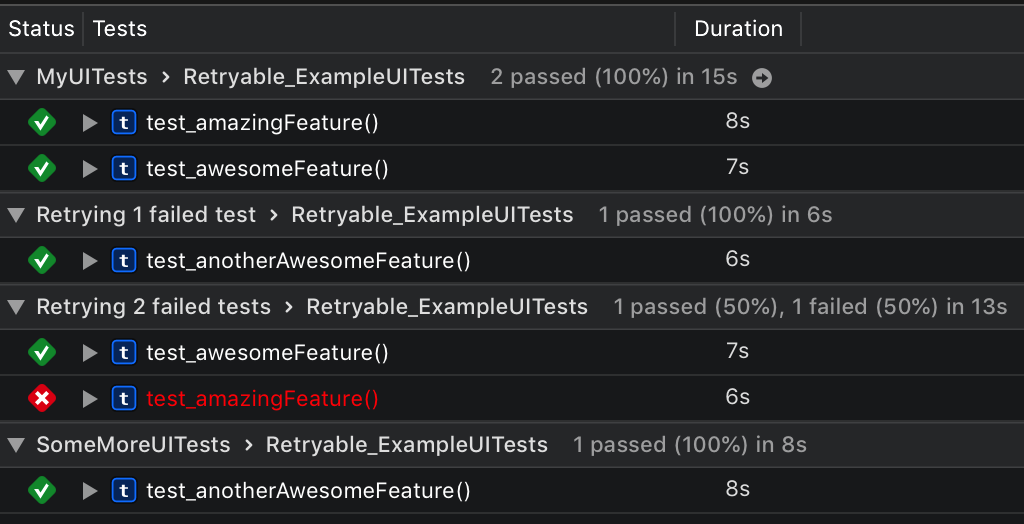
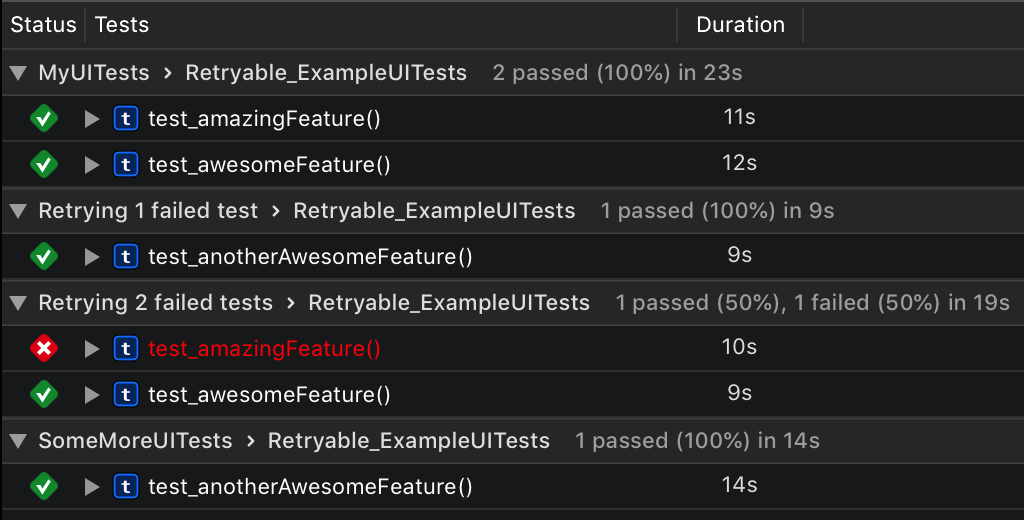
Changed sorting to be alphabetical

diff --git a/Retryable/Classes/RetryTestSuite.swift b/Retryable/Classes/RetryTestSuite.swift
@@ -14,7 +14,7 @@ final class RetryTestSuite: XCTestSuite {
 	init(_ failures: Set<RetryableTestCase>) {
 		let testsString = failures.count == 1 ? "test" : "tests"
 		super.init(name: "Retrying \(failures.count) failed \(testsString)")
-		failures.sorted(by: { $0.name > $1.name }).forEach { failure in
+		failures.sorted(by: { $0.name < $1.name }).forEach { failure in
 			guard let selector = failure.invocation?.selector else { fatalError("Tests for \(failure.name) should have a selector") }
 			let test = type(of: failure).init(selector) // Creates a new instance of the test case for the selector that failed
 			test.retryCount = failure.retryCount + 1 // Bumps the retry count of the new instance using the previously failed instance's count
